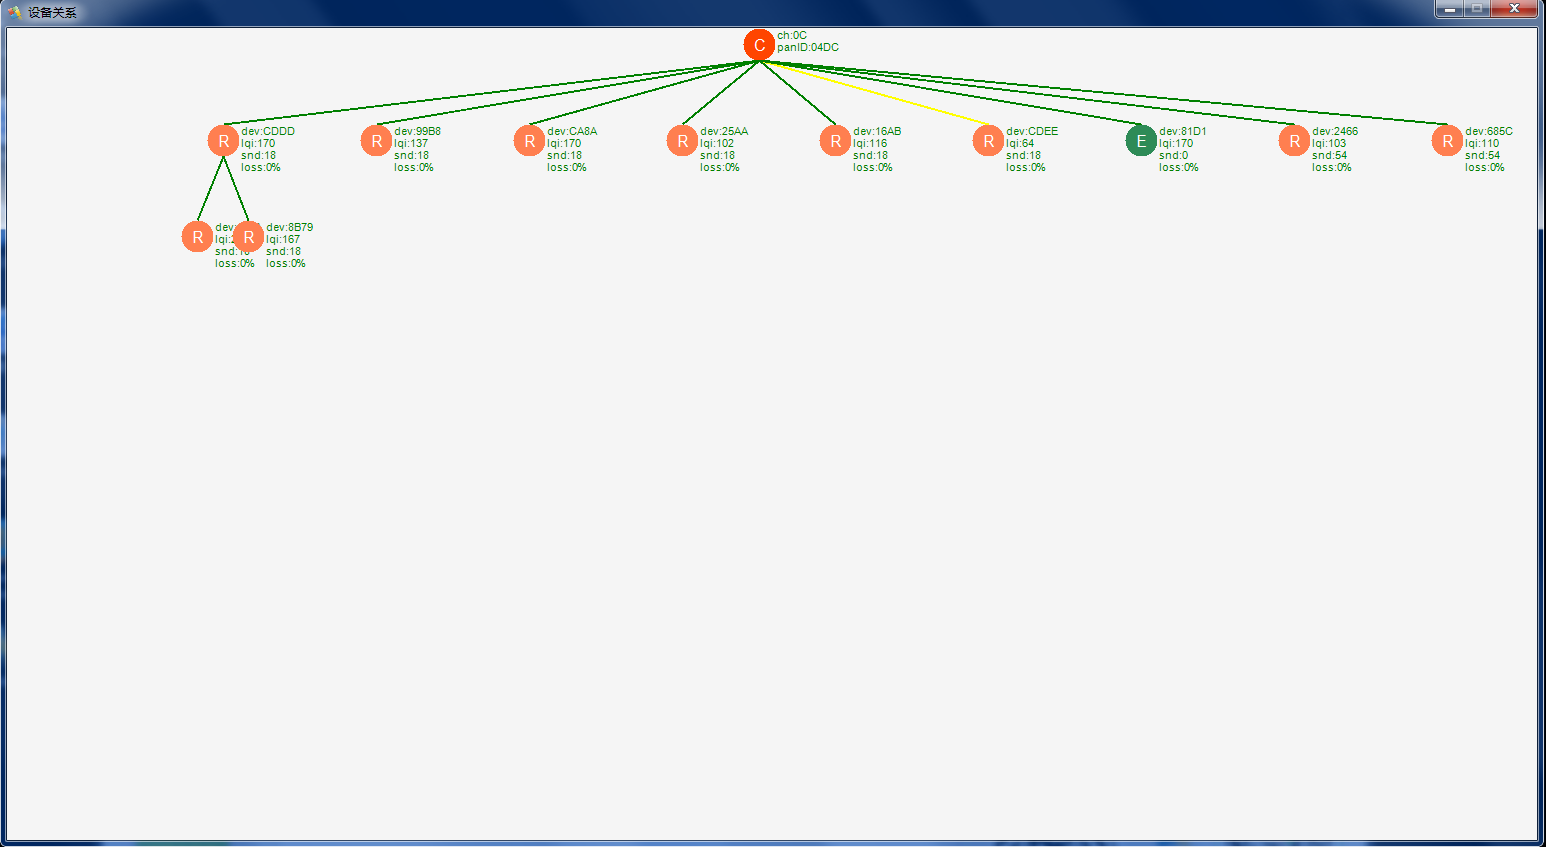
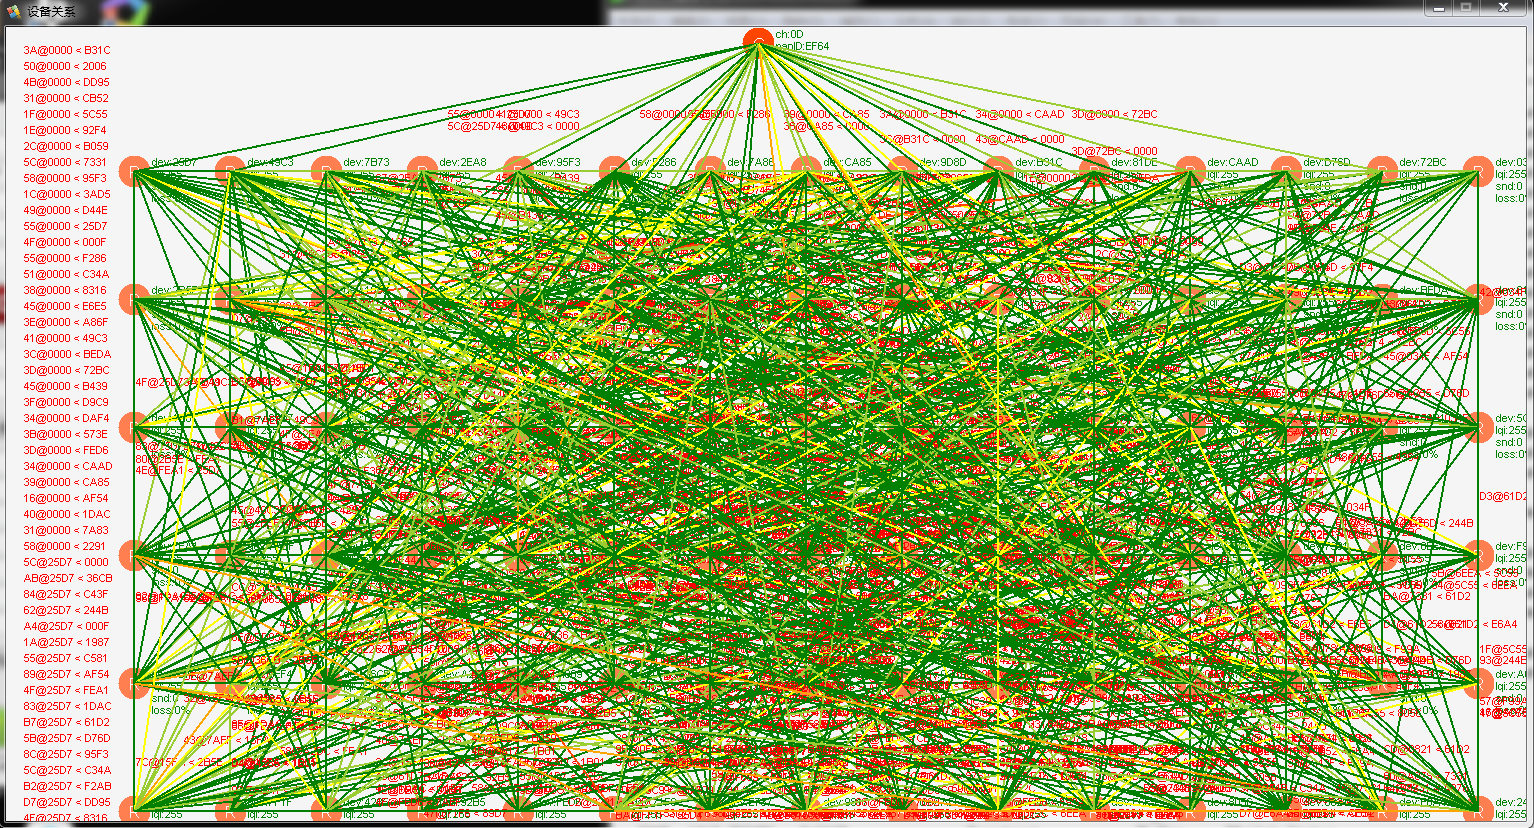
fix bugs

diff --git a/AssocMap.cs b/AssocMap.cs
@@ -11,11 +11,14 @@ namespace MySerialPorts
         static System.Windows.Forms.PictureBox myPictureBox;
         static Image    myImg;
         static Graphics myGraphics;
-        private const int DevWith = 64;
-        private const int DevHeight = 64;
-        private const int DevNumPerLine = 6;
+        private const int DevWith = 32;
+        private const int DevHeight = 32;
+        private const int DevNumPerLine = 15;
         private const int DevHeightPerLine = 4;
         private int DevStartID = 0;
+
+        private int ShowLqiString_x = 0;
+        private int ShowLqiString_y = 0;
         public AssocMap(System.Windows.Forms.PictureBox picbox)
         {
             myPictureBox = picbox;
@@ -49,6 +52,7 @@ namespace MySerialPorts
                 list[0].y = cdy;
                 list[0].text_x = cdx;
                 list[0].text_y = cdy;
+                ShowLqiString_y = 0;
                 DrawCoord(ch, panID, cdx, cdy);
                 DrawLayer(list, cdx, cdy, myImg.Width, myImg.Height);
                 myPictureBox.Image = myImg;
@@ -100,6 +104,16 @@ namespace MySerialPorts
                                 dev.text_y = sy;
                                 dev.text_x = sx;
                                 break;
+                            default:
+                                // DrawLine(dev.lqi, x, y, sx, sy);
+                                loss = ZigbeeApi.Device.GetLossPercent(dev.addr);
+                                snd = ZigbeeApi.Device.GetSendCount(dev.addr);
+                                DrawOphanDevice(dev.addr, 0xFF, loss, snd, sx, sy);
+                                dev.x = sx;
+                                dev.y = sy;
+                                dev.text_y = sy;
+                                dev.text_x = sx;
+                                break;
                         }
                     }
                 }
@@ -125,6 +139,9 @@ namespace MySerialPorts
                         DrawLine(n.rxlqi, sx, sy, ex, ey);
                         DrawStringLqi(dev.addr,n.addr, n.rxlqi, dev.text_x, dev.text_y, ex, ey);
                         AssocList.SetTextPoint(n.addr, d.text_x, d.text_y+25);
+
+                        DrawStringLqi(dev.addr, n.addr, n.rxlqi, ShowLqiString_x, ShowLqiString_y, 0, 0);
+                        ShowLqiString_y += 32;
                     }
                 }
             }
@@ -175,6 +192,22 @@ namespace MySerialPorts
             str += "loss:" + loss.ToString() + "%" + "\r\n";
             myGraphics.DrawString(str, f, Brushes.Green, pf);
         }
+        private void DrawOphanDevice(UInt16 addr, byte lqi, float loss, int snd, int x, int y)
+        {
+            Brush bush = new SolidBrush(Color.Red);//填充的颜色
+            myGraphics.FillEllipse(bush, x, y, DevWith, DevHeight);
+
+            Font f = new Font("Arial", 12);
+            PointF pf = new PointF(x + (DevWith / 4), y + (DevHeight / 4));
+            myGraphics.DrawString("O", f, Brushes.White, pf);
+
+            f = new Font("Arial", 8);
+            pf = new PointF(x + DevWith, y);
+            String str = "dev:" + addr.ToString("X4") + "\r\n" + "lqi:" + lqi.ToString() + "\r\n";
+            str += "snd:" + snd.ToString() + "\r\n";
+            str += "loss:" + loss.ToString() + "%" + "\r\n";
+            myGraphics.DrawString(str, f, Brushes.Green, pf);
+        }
         private void DrawStringLqi(UInt16 srcAddr, UInt16 tAddr, byte lqi, int x, int y, int ex, int ey)
         {
             x += (DevWith / 2);
@@ -186,7 +219,7 @@ namespace MySerialPorts
             y = (y + ey) / 2;
             Font f = new Font("Arial", 8);
             PointF pf = new PointF(x, y);
-            String str = lqi.ToString("X2")+"@"+srcAddr.ToString("X4")+" <-- "+ tAddr.ToString("X4") ;
+            String str = lqi.ToString("X2")+"@"+srcAddr.ToString("X4")+" < "+ tAddr.ToString("X4") ;
             myGraphics.DrawString(str, f, Brushes.Red, pf);
         }
         private void DrawLine(byte lqi,int x, int y, int ex, int ey)

diff --git a/Form2.cs b/Form2.cs
@@ -30,8 +30,8 @@ namespace MySerialPorts
             pictureBox1.Location = new Point(0,0);
             pictureBox1.Size = new Size(SW,SH);
             myAssocMap = new AssocMap(pictureBox1);
-            AssocList.ClearList();
-            ZigbeeApi.Instance.ReqAssocList();
+            ZigbeeApi.Instance.ReqAssoc(0x0000, (byte)0x00);
+            ZigbeeApi.Device.ReqLqiWithcAssoc();
         }
         private void Form2_Deactivate(object sender, EventArgs e)
         {
@@ -44,16 +44,24 @@ namespace MySerialPorts
 
         private void timer1_Tick(object sender, EventArgs e)
         {
-            this.BeginInvoke(myDrawMap);
+            //this.BeginInvoke(myDrawMap);
+            DrawMap();
+            runtime++;
            // AssocList.ClearList();
         }
+        private int last_count = 0;
+        private int runtime = 0;
         private void DrawMap()
         {
-            AssocList.LockList();
+            //AssocList.LockList();
             List<AssocList.DeviceAssocInfo_t> tree = AssocList.GetAssocList();
-            if (tree != null)
+            if (((tree != null) && (tree.Count != last_count)) || ((runtime % 10000 == 0) && (tree.Count>0)))
+            {
+                last_count = tree.Count;
+                myAssocMap.ClearImg();
                 myAssocMap.DrawDeviceMap((byte)ZigbeeApi.Device.GetChannel(), (UInt16)ZigbeeApi.Device.GetPanID(), tree);
-            AssocList.ReleaseList();
+            }
+            //AssocList.ReleaseList();
         }
         int i;
         private void timer2_Tick(object sender, EventArgs e)
@@ -63,8 +71,9 @@ namespace MySerialPorts
 
         private void timer2_Tick_1(object sender, EventArgs e)
         {
-            AssocList.ClearList();
-            ZigbeeApi.Instance.ReqAssocList();
+            //AssocList.ClearList();
+            ZigbeeApi.Instance.ReqAssoc(0x0000, (byte)0x00);
+            ZigbeeApi.Device.ReqLqiWithcAssoc();
         }
     }
 }

diff --git a/AssocList.cs b/AssocList.cs
@@ -45,14 +45,19 @@ namespace MySerialPorts
                 {
                     index += 16;
                     UInt16 DevAddr = ZigbeeCommon.BtoU16(data, index);
+                    if (ZigbeeApi.Device.CheckExist(DevAddr) == false)
+                    {
+                        ZigbeeApi.Device.AddDevice(DevAddr, null);
+                    }
                     index += 2;
                     byte devType = (byte)((data[index] & 0x03) + 1);
                     index += 3;
                     byte lqi = data[index++];
-                    if ((devType == 0x02) && (CheckExist(DevAddr) == false))
-                        ZigbeeApi.Instance.ReqAssoc(DevAddr, 0);
+                    //if ((devType == 0x02))
+                   //     ZigbeeApi.Instance.ReqAssoc(DevAddr, 0);
                     startID = AddDeviceAssoc(srcAddr, devType, DevAddr, lqi);
                 }
+                startID = startDevID + curNum;
                 if (startID < totalNum)
                     ZigbeeApi.Instance.ReqAssoc(srcAddr, (byte)startID);
                 else
@@ -176,7 +181,7 @@ namespace MySerialPorts
                 }
             }
             ReleaseList();
-            return index;
+            return index+1;
         }
         private static void SetFinishedFlag(UInt16 Addr, bool IsFinished)
         {
@@ -190,6 +195,19 @@ namespace MySerialPorts
                 }
             }
             ReleaseList();
+        }
+        public static bool GetFinishedFlag(UInt16 Addr)
+        {
+            LockList();
+            foreach (DeviceAssocInfo_t dev in myDeviceList)
+            {
+                if (dev.addr == Addr)
+                {
+                    return dev.finished;
+                }
+            }
+            ReleaseList();
+            return false;
         }
     }
 }

diff --git a/ZigbeeDevice.cs b/ZigbeeDevice.cs
@@ -33,6 +33,14 @@ namespace MySerialPorts
         static byte[]       ExAddr = new byte[8];
         static byte[]       NwkKey = new byte[16];
         static int          NVOperationType = 0;
+        public void ReqLqiWithcAssoc()
+        {
+            foreach (Device_t dev in DeviceList)
+            {
+                if(AssocList.GetFinishedFlag(dev.addr)==false)
+                    ZigbeeApi.Instance.ReqAssoc(dev.addr, (byte)0x00);
+            }
+        }
         public void InputMessage(byte[] data, int len)
         {
             if (data[2] == 0x61)//read or write NV  items
@@ -187,7 +195,7 @@ namespace MySerialPorts
         }
         public void AddDevice(UInt16 addr, byte[] exAddr)
         {
-            if (CheckExist(addr) == false)
+            if ((CheckExist(addr) == false)&&(addr>0))
             {
                 Device_t dev = new Device_t();
                 dev.addr = addr;

diff --git a/Form2.Designer.cs b/Form2.Designer.cs
@@ -39,7 +39,7 @@
             // timer1
             // 
             this.timer1.Enabled = true;
-            this.timer1.Interval = 1000;
+            this.timer1.Interval = 3000;
             this.timer1.Tick += new System.EventHandler(this.timer1_Tick);
             // 
             // pictureBox1
@@ -53,7 +53,7 @@
             // timer2
             // 
             this.timer2.Enabled = true;
-            this.timer2.Interval = 3000;
+            this.timer2.Interval = 15000;
             this.timer2.Tick += new System.EventHandler(this.timer2_Tick_1);
             // 
             // Form2

diff --git a/ZigbeeOutput.cs b/ZigbeeOutput.cs
@@ -71,7 +71,7 @@ namespace MySerialPorts
             snd.cmd0 = cmd0;
             snd.cmd1 = cmd1;
             snd.seq = seq;
-            snd.runtime = 0;
+            snd.runtime = ZigbeeApi.myZtool.GetSendTimeout();
             snd.stry = stry;
             snd.data = new byte[data.Length];
             Array.Copy(data, snd.data, data.Length);

diff --git a/Form1.cs b/Form1.cs
@@ -199,6 +199,7 @@ namespace MySerialPorts
                     sp.Open();
                     连接.Image = Properties.Resources.Close;
                     ZigbeeApi.Instance.ReqReadNetWorkInfo();
+                    //ZigbeeApi.Instance.ReqAssocList();
                 }
                 else
                 {
